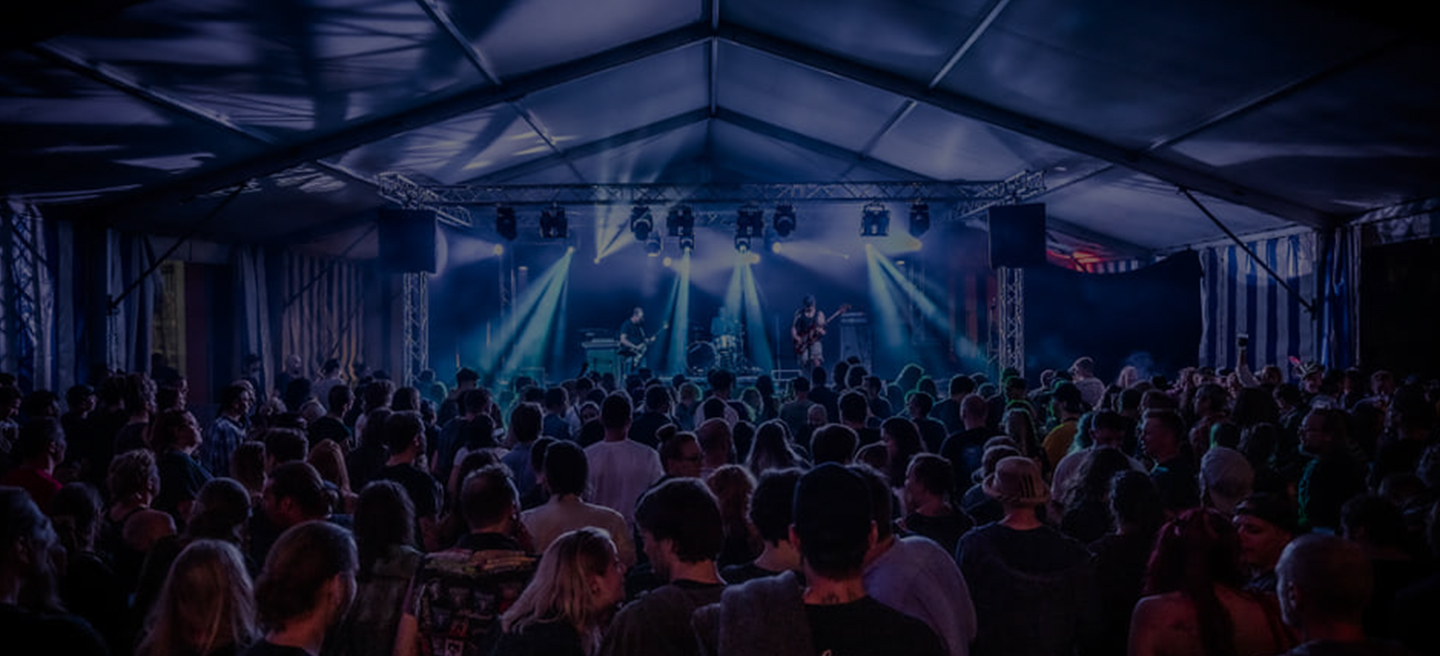
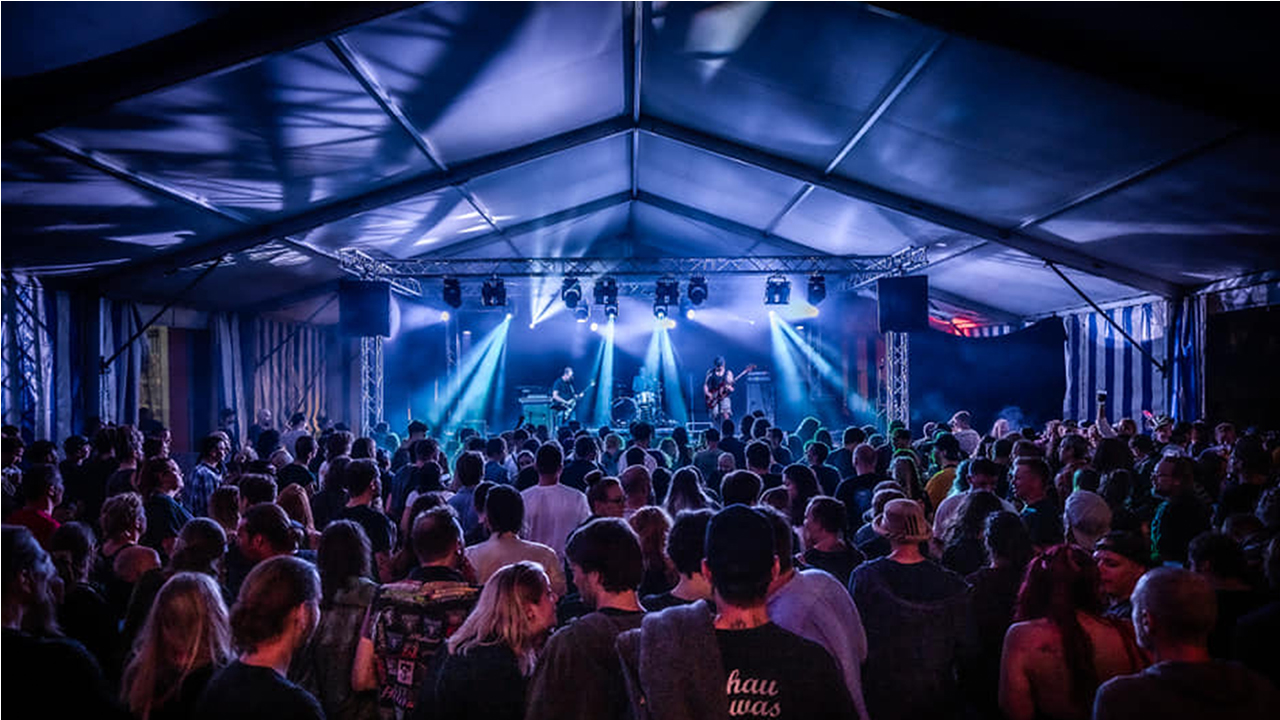
change header images

diff --git a/public/wp-content/themes/kunstmue/style.css b/public/wp-content/themes/kunstmue/style.css
@@ -617,6 +617,8 @@ p {
     background-image: url("./images/background-facts.jpg");
     background-size: cover;
     background-position: center;
+    background-color: rgba(0, 0, 0, 0.4);
+    background-blend-mode: multiply;
     display: flex;
     flex-direction: column;
     justify-content: center;
@@ -734,8 +736,8 @@ p {
     gap: 2rem;
   }
   .plan {
-    max-height: 20rem;
-    max-width: 20rem;
+    max-height: 17rem;
+    max-width: 17rem;
     background-color: #E9E9E9;
   }
   .hard-facts-fourth {
@@ -884,6 +886,8 @@ p {
     background-image: url("./images/background-facts.jpg");
     background-size: cover;
     background-position: center;
+    background-color: rgba(0, 0, 0, 0.4);
+    background-blend-mode: multiply;
     display: flex;
     flex-direction: column;
     justify-content: center;
@@ -1642,6 +1646,8 @@ p {
     background-size: cover;
     background-repeat: no-repeat;
     background-position: center;
+    background-color: rgba(0, 0, 0, 0.4);
+    background-blend-mode: multiply;
     display: flex;
     flex-direction: column;
     justify-content: center;
@@ -1709,8 +1715,10 @@ p {
   }
   #line-up .line-up-hero {
     background-image: url("./images/l-u-banner.jpg");
-    background-size: cover;
+    background-size: 100%;
     background-repeat: no-repeat;
+    background-color: rgba(0, 0, 0, 0.4);
+    background-blend-mode: multiply;
     display: flex;
     flex-direction: column;
     justify-content: center;

diff --git a/src/sass/facts.scss b/src/sass/facts.scss
@@ -17,6 +17,8 @@
         background-image: url('./images/background-facts.jpg');
         background-size: cover;
         background-position: center;
+        background-color: rgba(0,0,0,0.4);
+        background-blend-mode: multiply;
         display: flex;
         flex-direction: column;
         justify-content: center;
@@ -146,8 +148,8 @@
         
     }
     .plan{
-        max-height: 20rem;
-        max-width:20rem;
+        max-height: 17rem;
+        max-width:17rem;
         background-color: #E9E9E9;
     }
 
@@ -313,6 +315,8 @@
         background-image: url('./images/background-facts.jpg');
         background-size: cover;
         background-position: center;
+        background-color: rgba(0,0,0,0.4);
+        background-blend-mode: multiply;
         display: flex;
         flex-direction: column;
         justify-content: center;

diff --git a/src/sass/line-up.scss b/src/sass/line-up.scss
@@ -5,6 +5,8 @@
         background-size: cover;
         background-repeat: no-repeat;
         background-position: center;
+        background-color: rgba(0,0,0,0.4);
+        background-blend-mode: multiply;
         display: flex;
         flex-direction: column;
         justify-content: center;
@@ -83,8 +85,10 @@
         .line-up-hero{
 
         background-image: url('./images/l-u-banner.jpg');
-        background-size: cover;
+        background-size: 100%;
         background-repeat: no-repeat;
+        background-color: rgba(0,0,0,0.4);
+        background-blend-mode: multiply;
         display: flex;
         flex-direction: column;
         justify-content: center;
